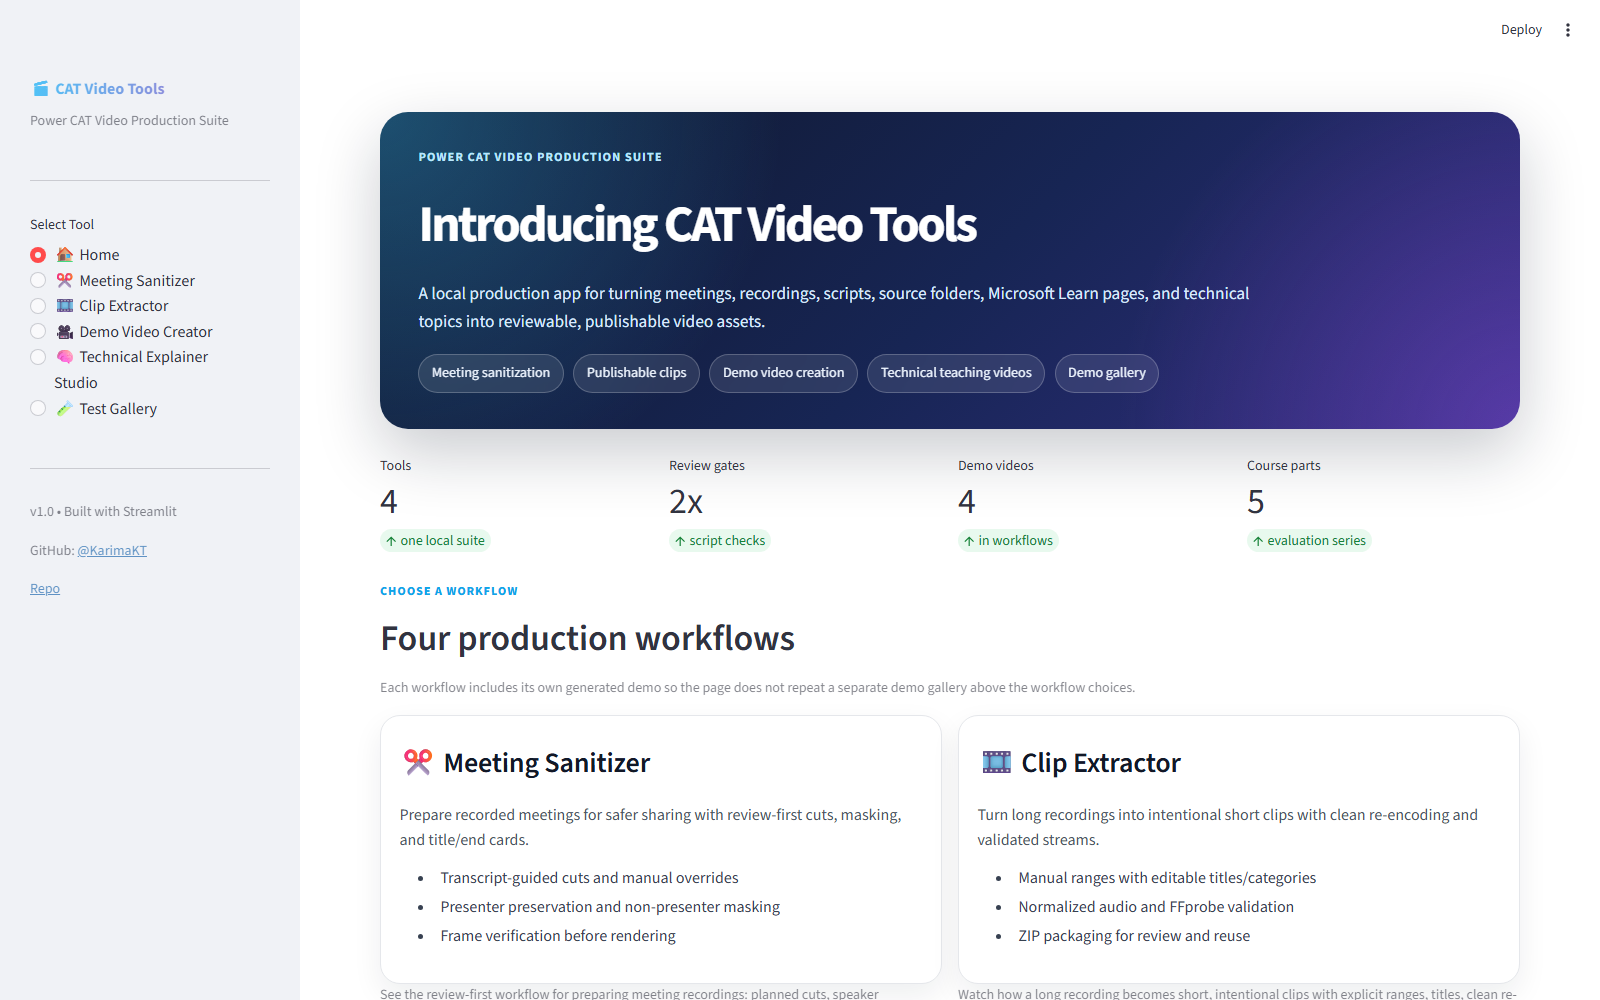
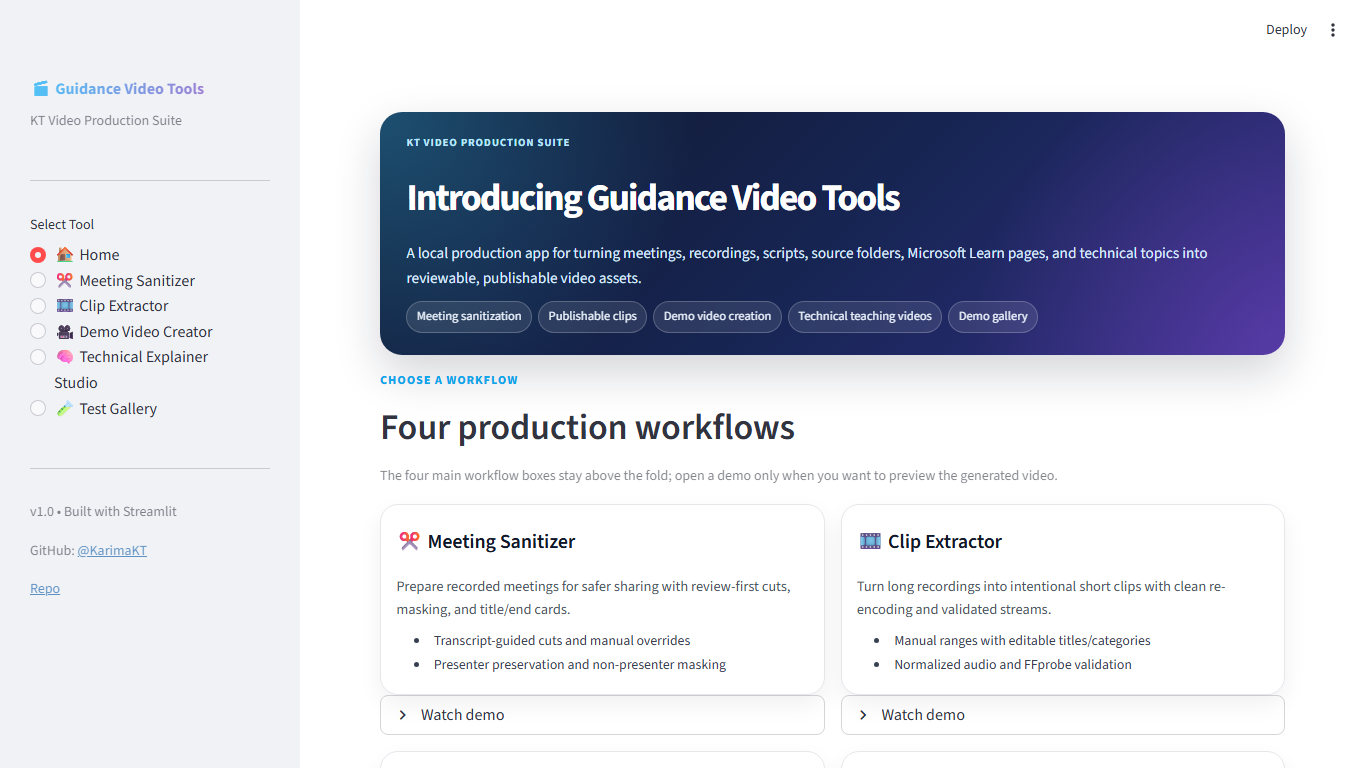
Rename app to Guidance Video Tools
Update public-facing app, README, package metadata, skills, and the hub screenshot while leaving existing demo video filenames unchanged.

diff --git a/app.py b/app.py
@@ -1,5 +1,5 @@
 """
-CAT Video Tools — Web UI
+Guidance Video Tools — Web UI
 =========================
 Streamlit-based interface for both tools:
   1. Meeting Sanitizer: upload recording + transcript → get clean video
@@ -321,7 +321,7 @@ def _default_web_walkthrough_steps(url: str) -> list[dict]:
         {
             "label": "Open the portal",
             "action": "goto",
-            "narration": "Introducing CAT Video Tools, the local portal for production-ready video workflows.",
+            "narration": "Introducing Guidance Video Tools, the local portal for production-ready video workflows.",
         },
         {
             "label": "Show featured demos",
@@ -1043,7 +1043,7 @@ def _document_assets() -> list[dict]:
     return [a for a in st.session_state.get("content_assets", []) if a.get("kind") == "documents"]
 
 st.set_page_config(
-    page_title="CAT Video Tools",
+    page_title="Guidance Video Tools",
     page_icon="🎬",
     layout="wide",
     initial_sidebar_state="expanded",
@@ -1068,49 +1068,49 @@ st.markdown("""
         margin-bottom: 1rem;
     }
     .cat-hero {
-        padding: 2.25rem 2.4rem;
-        border-radius: 28px;
+        padding: 1.35rem 1.65rem;
+        border-radius: 22px;
         background:
             radial-gradient(circle at top left, rgba(56, 189, 248, 0.34), transparent 34%),
             radial-gradient(circle at bottom right, rgba(168, 85, 247, 0.32), transparent 34%),
             linear-gradient(135deg, #0f172a 0%, #172554 52%, #312e81 100%);
         color: white;
-        box-shadow: 0 24px 64px rgba(15, 23, 42, 0.22);
-        margin-bottom: 1.5rem;
+        box-shadow: 0 18px 46px rgba(15, 23, 42, 0.18);
+        margin-bottom: .85rem;
     }
     .cat-eyebrow {
         color: #bae6fd;
         font-weight: 700;
         letter-spacing: .08em;
         text-transform: uppercase;
-        font-size: .78rem;
-        margin-bottom: .65rem;
+        font-size: .68rem;
+        margin-bottom: .45rem;
     }
     .cat-hero h1 {
-        font-size: 3.2rem;
+        font-size: 2.35rem;
         line-height: 1.04;
-        margin: 0 0 .8rem 0;
+        margin: 0 0 .5rem 0;
         letter-spacing: -0.05em;
     }
     .cat-hero p {
-        font-size: 1.08rem;
+        font-size: .95rem;
         color: #dbeafe;
-        max-width: 860px;
-        margin-bottom: 1.15rem;
+        max-width: 920px;
+        margin-bottom: .7rem;
     }
     .cat-pill-row {
         display: flex;
         flex-wrap: wrap;
-        gap: .6rem;
-        margin-top: 1.1rem;
+        gap: .4rem;
+        margin-top: .7rem;
     }
     .cat-pill {
         border: 1px solid rgba(255,255,255,.22);
         background: rgba(255,255,255,.10);
         border-radius: 999px;
-        padding: .46rem .78rem;
+        padding: .32rem .58rem;
         color: #eff6ff;
-        font-size: .88rem;
+        font-size: .78rem;
         backdrop-filter: blur(10px);
     }
     .section-kicker {
@@ -1119,7 +1119,7 @@ st.markdown("""
         letter-spacing: .08em;
         text-transform: uppercase;
         font-size: .76rem;
-        margin-top: .6rem;
+        margin-top: .15rem;
     }
     .landing-card {
         border: 1px solid #e5e7eb;
@@ -1160,6 +1160,33 @@ st.markdown("""
         font-size: .82rem;
         margin-bottom: .55rem;
     }
+    .workflow-card {
+        border: 1px solid #e5e7eb;
+        border-radius: 18px;
+        padding: .8rem .95rem;
+        background: #ffffff;
+        box-shadow: 0 10px 24px rgba(15, 23, 42, 0.06);
+        min-height: 185px;
+    }
+    .workflow-card h3 {
+        margin: 0 0 .35rem 0;
+        color: #111827;
+        font-size: 1.25rem;
+    }
+    .workflow-card p {
+        color: #4b5563;
+        font-size: .9rem;
+        margin-bottom: .45rem;
+    }
+    .workflow-card ul {
+        margin: 0 0 .35rem 0;
+        padding-left: 1.1rem;
+        color: #374151;
+        font-size: .86rem;
+    }
+    .workflow-card li {
+        margin-bottom: .12rem;
+    }
     .stProgress > div > div > div > div {
         background: linear-gradient(90deg, #4fc3f7, #81c784);
     }
@@ -1169,8 +1196,8 @@ st.markdown("""
 
 # ── Sidebar ──────────────────────────────────────────────────────────────────
 with st.sidebar:
-    st.markdown('<p class="main-header">🎬 CAT Video Tools</p>', unsafe_allow_html=True)
-    st.caption("Power CAT Video Production Suite")
+    st.markdown('<p class="main-header">🎬 Guidance Video Tools</p>', unsafe_allow_html=True)
+    st.caption("KT Video Production Suite")
     st.divider()
 
     tool = st.radio(
@@ -1182,7 +1209,7 @@ with st.sidebar:
     st.divider()
     st.caption("v1.0 • Built with Streamlit")
     st.caption("GitHub: [@KarimaKT](https://github.com/KarimaKT)")
-    st.caption("[Repo](https://github.com/KarimaKT/cat-video-tools)")
+    st.caption("[Repo](https://github.com/KarimaKT/guidance-video-tools)")
 
 
 # ── Home Page ────────────────────────────────────────────────────────────────
@@ -1207,8 +1234,8 @@ if tool == "🏠 Home":
 
     st.markdown("""
     <div class="cat-hero">
-        <div class="cat-eyebrow">Power CAT video production suite</div>
-        <h1>Introducing CAT Video Tools</h1>
+        <div class="cat-eyebrow">KT Video Production Suite</div>
+        <h1>Introducing Guidance Video Tools</h1>
         <p>
             A local production app for turning meetings, recordings, scripts, source folders,
             Microsoft Learn pages, and technical topics into reviewable, publishable video assets.
@@ -1223,15 +1250,9 @@ if tool == "🏠 Home":
     </div>
     """, unsafe_allow_html=True)
 
-    metric1, metric2, metric3, metric4 = st.columns(4)
-    metric1.metric("Tools", "4", "one local suite")
-    metric2.metric("Review gates", "2x", "script checks")
-    metric3.metric("Demo videos", str(len([d for d in workflow_demos.values() if d])), "in workflows")
-    metric4.metric("Course parts", str(len(evaluation_demos)), "evaluation series")
-
     st.markdown('<div class="section-kicker">Choose a workflow</div>', unsafe_allow_html=True)
     st.markdown("## Four production workflows")
-    st.caption("Each workflow card includes the product promise, the generated video, and the caption in one place.")
+    st.caption("The four main workflow boxes stay above the fold; open a demo only when you want to preview the generated video.")
 
     def render_workflow_video(kind: str) -> None:
         demo = workflow_demos.get(kind)
@@ -1239,20 +1260,27 @@ if tool == "🏠 Home":
             st.info("Demo not generated yet.")
             return
         media_path = _demo_media_path(demo)
-        if media_path and media_path.exists():
-            st.video(str(media_path))
-        elif media_path:
-            st.warning(f"Demo media missing: `{media_path}`")
-        if demo.get("description"):
-            st.caption(demo["description"])
+        with st.expander("Watch demo", expanded=False):
+            if media_path and media_path.exists():
+                st.video(str(media_path))
+            elif media_path:
+                st.warning(f"Demo media missing: `{media_path}`")
+            if demo.get("description"):
+                st.caption(demo["description"])
 
     def render_workflow_card(title: str, body: str, bullets: list[str], kind: str) -> None:
-        with st.container(border=True):
-            st.markdown(f"### {title}")
-            st.write(body)
-            for bullet in bullets:
-                st.markdown(f"- {bullet}")
-            render_workflow_video(kind)
+        bullet_html = "".join(f"<li>{bullet}</li>" for bullet in bullets[:2])
+        st.markdown(
+            f"""
+            <div class="workflow-card">
+                <h3>{title}</h3>
+                <p>{body}</p>
+                <ul>{bullet_html}</ul>
+            </div>
+            """,
+            unsafe_allow_html=True,
+        )
+        render_workflow_video(kind)
 
     card1, card2 = st.columns(2)
     with card1:
@@ -1262,7 +1290,6 @@ if tool == "🏠 Home":
             [
                 "Transcript-guided cuts and manual overrides",
                 "Presenter preservation and non-presenter masking",
-                "Frame verification before rendering",
             ],
             "sanitizer",
         )
@@ -1273,7 +1300,6 @@ if tool == "🏠 Home":
             [
                 "Manual ranges with editable titles/categories",
                 "Normalized audio and FFprobe validation",
-                "ZIP packaging for review and reuse",
             ],
             "clip extraction",
         )
@@ -1286,7 +1312,6 @@ if tool == "🏠 Home":
             [
                 "Structured script-to-demo workflow",
                 "Raw walkthrough footage plus narrated assembly",
-                "Neural narration and styled slides",
             ],
             "creator",
         )
@@ -1297,7 +1322,6 @@ if tool == "🏠 Home":
             [
                 "User framing, misunderstandings, and feature focus",
                 "Microsoft Learn pages, local folders, screenshots, demos",
-                "Self-critique and editable storyboard",
             ],
             "technical explainer",
         )
@@ -1801,7 +1825,7 @@ elif tool == "🎥 Demo Video Creator":
         col1, col2 = st.columns([1.2, 1])
         with col1:
             walkthrough_url = st.text_input("Web page to show", value="http://localhost:8601")
-            walkthrough_title = st.text_input("Walkthrough title", value="CAT Video Tools Portal Walkthrough")
+            walkthrough_title = st.text_input("Walkthrough title", value="Guidance Video Tools Portal Walkthrough")
         with col2:
             walkthrough_voice = st.selectbox("Narration voice", [
                 "en-US-AriaNeural (Female)",
@@ -2024,7 +2048,7 @@ Then replace placeholder media paths, save the YAML, and upload it here.
                 "Upload `.yaml` or `.yml` script",
                 type=["yaml", "yml"],
                 key="creator_yaml_upload",
-                help="This should be a CAT Video Tools video script with title, voice, and scenes.",
+                help="This should be a Guidance Video Tools video script with title, voice, and scenes.",
             )
 
         if script_file:

diff --git a/README.md b/README.md
@@ -1,6 +1,6 @@
-# CAT Video Tools
+# Guidance Video Tools
 
-**CAT Video Tools** is a review-first video production hub for turning recordings, demos, screenshots, source material, and technical explanations into cleaner, shareable video assets.
+**Guidance Video Tools** is a review-first video production hub for turning recordings, demos, screenshots, source material, and technical explanations into cleaner, shareable video assets.
 
 The fastest way to use it is:
 
@@ -14,8 +14,8 @@ The app does deterministic media work. The skills help you get the YAML, timesta
 ## Fastest path: install, use a skill, open the hub
 
 ```bash
-git clone https://github.com/KarimaKT/cat-video-tools
-cd cat-video-tools
+git clone https://github.com/KarimaKT/guidance-video-tools
+cd guidance-video-tools
 
 python -m venv .venv
 .venv\Scripts\activate
@@ -47,7 +47,7 @@ The skills live in [`skills/`](skills/). You can use them in two ways:
 ```text
 Use skills/meeting-sanitizer-plan.md.
 
-I need to clean up a recorded webinar in CAT Video Tools.
+I need to clean up a recorded webinar in Guidance Video Tools.
 Recording path: [path to mp4]
 Transcript path: [path to vtt]
 Keep speakers exactly as: [speaker names as they appear in the transcript]
@@ -97,7 +97,7 @@ Paste the reviewed ranges into **Clip Extractor** in the app.
 ```text
 Use skills/demo-video-draft.md.
 
-Create CAT Video Tools Demo Video Creator YAML for:
+Create Guidance Video Tools Demo Video Creator YAML for:
 Product/app/feature: [name]
 Audience: [viewer]
 Problem it solves: [pain]
@@ -453,7 +453,7 @@ The smoke test synthesizes short video/audio assets with FFmpeg, renders segment
 ## Repository layout
 
 ```text
-cat-video-tools/
+guidance-video-tools/
 ├── app.py
 ├── requirements.txt
 ├── package.json

diff --git a/skills/README.md b/skills/README.md
@@ -1,4 +1,4 @@
-# CAT Video Tools skills
+# Guidance Video Tools skills
 
 These are portable Clawpilot / Agency Copilot instructions that help users prepare better inputs before using the app.
 
@@ -12,7 +12,7 @@ The app remains the deterministic renderer and media processor. The skills are p
 | `/clip-extractor-plan` | Clip Extractor | Paste-ready clip ranges, viewer-facing titles, categories, review notes |
 | `/demo-video-draft` | Demo Video Creator | Demo Video Creator YAML with screenshot/video placeholders |
 | `/technical-learning-video` | Technical Explainer Studio | Topic brief, source notes, storyboard, learning arc guidance |
-| `video_app_user.md` | Operating CAT Video Tools | Review-before-render usage guidance |
+| `video_app_user.md` | Operating Guidance Video Tools | Review-before-render usage guidance |
 | `video_app_maker.md` | Building similar tools | Product and engineering guidance for human-reviewed video apps |
 
 ## How to use
@@ -20,7 +20,7 @@ The app remains the deterministic renderer and media processor. The skills are p
 1. Copy or install the skill in Clawpilot / Agency Copilot.
 2. Run the skill with your topic, recording notes, transcript excerpts, source links, or audience.
 3. Review the generated plan or YAML.
-4. Bring the reviewed output back into CAT Video Tools.
+4. Bring the reviewed output back into Guidance Video Tools.
 5. Render only after the app audit/preview/review step is complete.
 
 ## Natural-language prompt starters
@@ -48,7 +48,7 @@ Return paste-ready ranges: MM:SS - MM:SS | title | category. Do not invent times
 ### Demo Video Creator
 
 ```text
-Use skills/demo-video-draft.md. Create CAT Video Tools YAML for a product demo.
+Use skills/demo-video-draft.md. Create Guidance Video Tools YAML for a product demo.
 Product/feature: [...]
 Audience: [...]
 Problem and value: [...]

diff --git a/skills/demo-video-draft.md b/skills/demo-video-draft.md
@@ -1,6 +1,6 @@
 # /demo-video-draft
 
-Generate a viewer-facing CAT Video Tools Demo Video Creator YAML draft from a topic, scenario, audience, and optional capture notes.
+Generate a viewer-facing Guidance Video Tools Demo Video Creator YAML draft from a topic, scenario, audience, and optional capture notes.
 
 ## Use when
 
@@ -8,7 +8,7 @@ You have a rough demo idea and want Clawpilot or Agency Copilot to draft the YAM
 
 ## Instructions
 
-You are generating a draft YAML script for CAT Video Tools: Demo Video Creator.
+You are generating a draft YAML script for Guidance Video Tools: Demo Video Creator.
 
 I will give you a topic, product, feature, or scenario. Create a viewer-facing product demo script, not an internal task list.
 

diff --git a/skills/technical-learning-video.md b/skills/technical-learning-video.md
@@ -4,7 +4,7 @@ Use this skill before creating a technical explainer, product walkthrough, app d
 
 ## Purpose
 
-Turn a hard topic, source material, demo scenario, or product feature into a viewer-centered learning plan that can be reviewed and then rendered in CAT Video Tools.
+Turn a hard topic, source material, demo scenario, or product feature into a viewer-centered learning plan that can be reviewed and then rendered in Guidance Video Tools.
 
 The output should teach, orient, and make the viewer care. It should not be a lazy summary, implementation dump, or internal workflow checklist.
 

diff --git a/skills/video_app_maker.md b/skills/video_app_maker.md
@@ -1,6 +1,6 @@
 # Portable skill: building human-reviewed video tools
 
-Use this guidance when building apps similar to CAT Video Tools.
+Use this guidance when building apps similar to Guidance Video Tools.
 
 ## Principles
 

diff --git a/skills/video_app_user.md b/skills/video_app_user.md
@@ -1,4 +1,4 @@
-# Portable skill: using CAT Video Tools
+# Portable skill: using Guidance Video Tools
 
 Use this guidance when operating the app.
 

diff --git a/test/README.md b/test/README.md
@@ -1,6 +1,6 @@
 # Test and demo assets
 
-This folder is the curated test/demo hub for CAT Video Tools.
+This folder is the curated test/demo hub for Guidance Video Tools.
 
 Keep it lean:
 